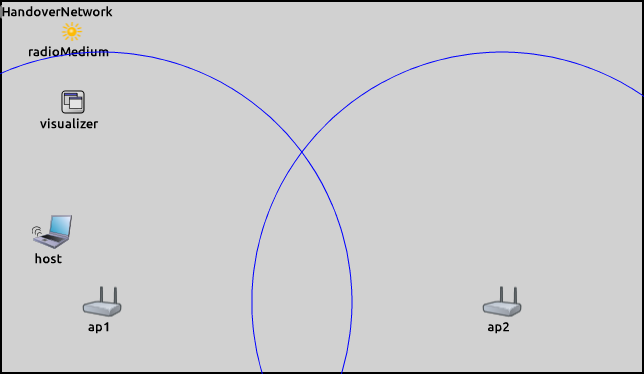
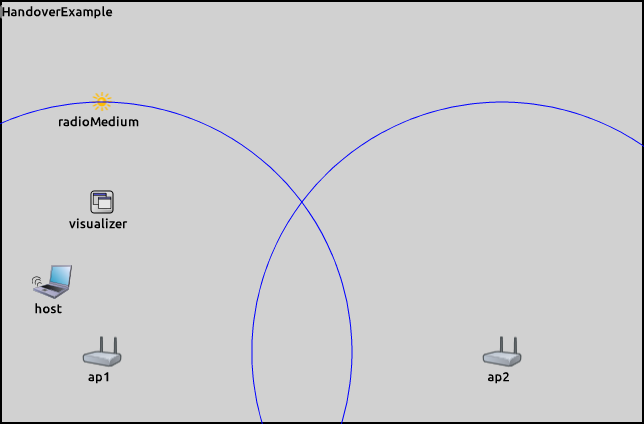
handover updated screenshots

diff --git a/samples/handover/index.html b/samples/handover/index.html
@@ -79,7 +79,7 @@ shown in the packet log below.</p>
 
 <p>This animation shows the handover.</p>
 
-<p><center><img src="handover4.gif"></center></p>
+<p><center><img src="handover7.gif"></center></p>
 
 <p>
 	The dotted arrows indicate recent successful physical layer transmissions. In this example, they will be used to visualize that the host is associated with an AP.
@@ -116,7 +116,7 @@ The <tt>mgmt</tt> modules of access points maintain a list of hosts that are ass
 
 Here is an animation showing the host moving across the playground.
 
-<p><center><img src="handover2.gif"></center></p>
+<p><center><img src="handover6.gif"></center></p>
 
 </body>
 </html>
